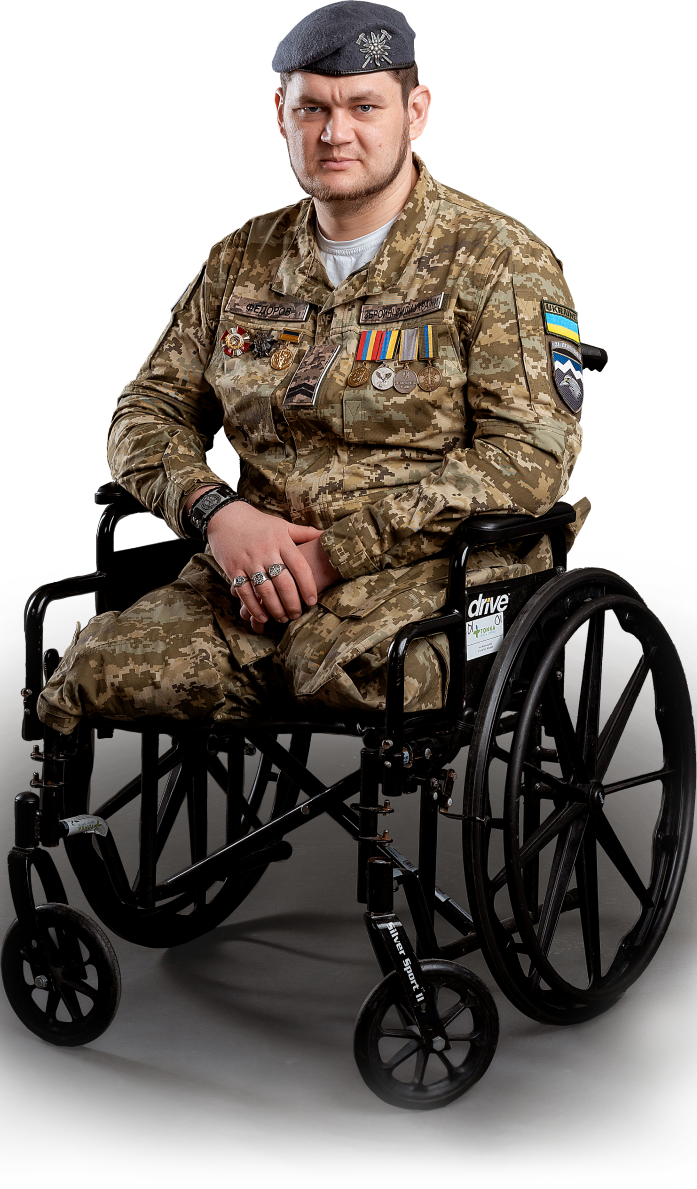
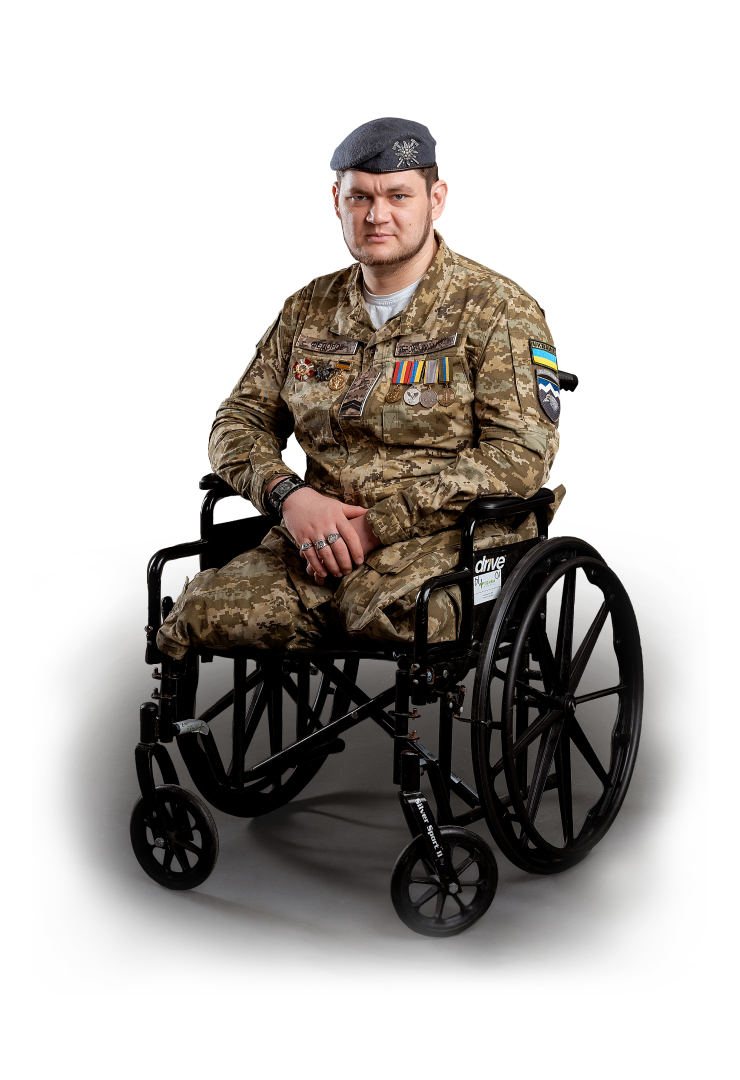
replaced VadymFedorov picture

diff --git a/src/sections/SpecialThanksToAllOurPartners/index.tsx b/src/sections/SpecialThanksToAllOurPartners/index.tsx
@@ -57,7 +57,7 @@ const SpecialThanksToAllOurPartners = () => {
           <Image
             // TODO: remove after review
 
-            src={`/protez/protezPage/partnersLogos/${icon}.svg`}
+            src={`/protez/partnersLogos/${icon}.svg`}
             alt={icon}
             width={300}
             height={230}
@@ -66,7 +66,7 @@ const SpecialThanksToAllOurPartners = () => {
           <Image
             // TODO: remove after review
 
-            src={`/protez/protezPage/partnersLogos/${icon}-color.svg`}
+            src={`/protez/partnersLogos/${icon}-color.svg`}
             alt={icon}
             width={300}
             height={230}
@@ -79,7 +79,7 @@ const SpecialThanksToAllOurPartners = () => {
         <Image
           // TODO: remove after review
 
-          src={`/protez/protezPage/partnersLogos/dita.svg`}
+          src={`/protez/partnersLogos/dita.svg`}
           alt={'Dita Group'}
           width={300}
           height={230}
@@ -88,7 +88,7 @@ const SpecialThanksToAllOurPartners = () => {
         <Image
           // TODO: remove after review
 
-          src={`/protez/protezPage/partnersLogos/dita-color.svg`}
+          src={`/protez/partnersLogos/dita-color.svg`}
           alt={'Dita Group'}
           width={300}
           height={230}

diff --git a/src/sections/protez/16-MailingList/MailingList.tsx b/src/sections/protez/16-MailingList/MailingList.tsx
@@ -114,7 +114,7 @@ const MailingList = () => {
             <div key={index} className={style.imageWrapper}>
               <Image
                 // TODO: remove after review
-                src={`/protez/protezPage/veterans/mailingList/${slide}`}
+                src={`/protez/protezPage/mailingList/${slide}`}
                 alt="troops"
                 width={331}
                 height={316}
